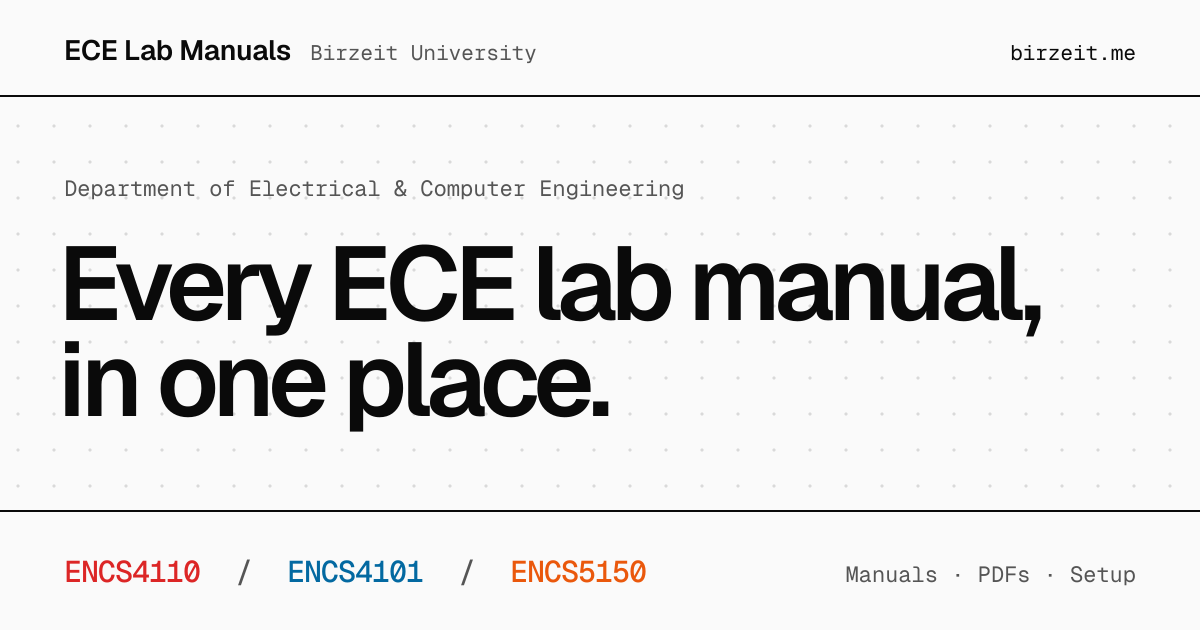
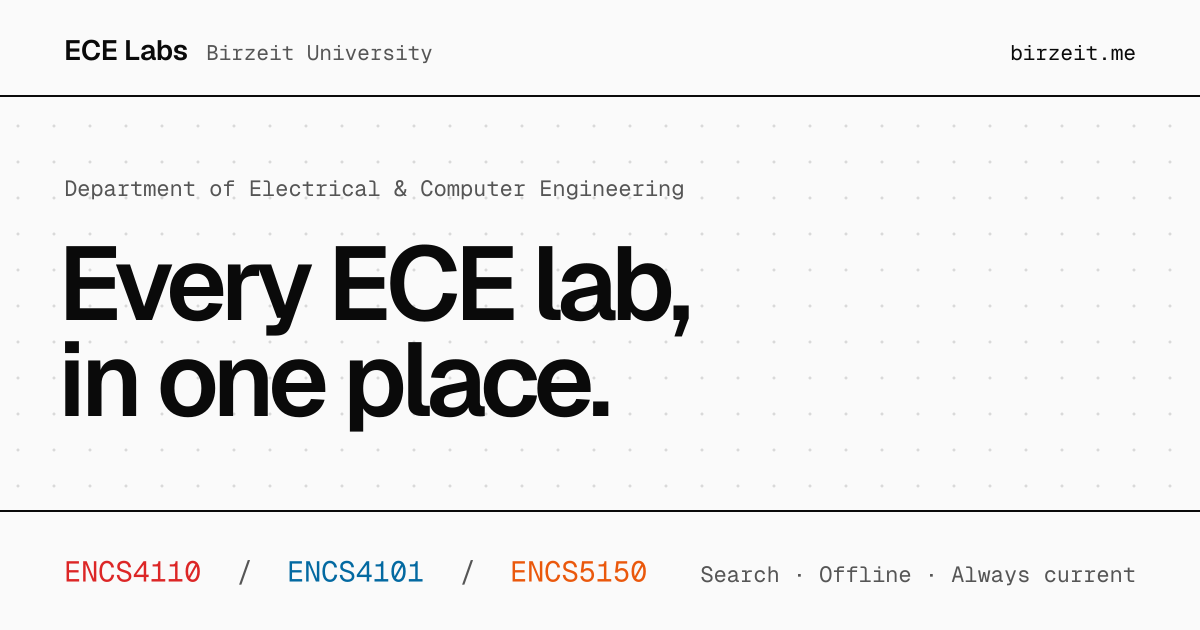
Rename ECE Lab Manuals to ECE Labs; present it as a web platform

diff --git a/index.html b/index.html
@@ -3,17 +3,17 @@
 <head>
 <meta charset="utf-8">
 <meta name="viewport" content="width=device-width, initial-scale=1">
-<title>ECE Lab Manuals · Birzeit University</title>
-<meta name="description" content="Open, step-by-step lab manuals for the Department of Electrical &amp; Computer Engineering at Birzeit University.">
-<meta property="og:title" content="ECE Lab Manuals · Birzeit University">
-<meta property="og:description" content="Open, step-by-step lab manuals for the Department of Electrical &amp; Computer Engineering at Birzeit University.">
+<title>ECE Labs · Birzeit University</title>
+<meta name="description" content="A web platform for the lab manuals of the Department of Electrical &amp; Computer Engineering at Birzeit University: searchable, with copy-paste code, setup guides and printable PDFs.">
+<meta property="og:title" content="ECE Labs · Birzeit University">
+<meta property="og:description" content="A web platform for the lab manuals of the Department of Electrical &amp; Computer Engineering at Birzeit University: searchable, with copy-paste code, setup guides and printable PDFs.">
 <meta property="og:url" content="https://birzeit.me/">
 <meta property="og:type" content="website">
-<meta property="og:site_name" content="ECE Lab Manuals">
+<meta property="og:site_name" content="ECE Labs">
 <meta property="og:image" content="https://birzeit.me/og.png">
 <meta property="og:image:width" content="1200">
 <meta property="og:image:height" content="630">
-<meta property="og:image:alt" content="ECE Lab Manuals, Birzeit University: every ECE lab manual, in one place.">
+<meta property="og:image:alt" content="ECE Labs, Birzeit University: every ECE lab, in one place.">
 <meta name="twitter:card" content="summary_large_image">
 <link rel="canonical" href="https://birzeit.me/">
 <link rel="icon" type="image/png" sizes="32x32" href="/favicon.png">
@@ -26,12 +26,12 @@
       "@type": "WebSite",
       "@id": "https://birzeit.me/#website",
       "url": "https://birzeit.me/",
-      "name": "ECE Lab Manuals",
-      "description": "Open, step-by-step lab manuals for the Department of Electrical & Computer Engineering at Birzeit University."
+      "name": "ECE Labs",
+      "description": "A web platform for the lab manuals of the Department of Electrical & Computer Engineering at Birzeit University: searchable, with copy-paste code, setup guides and printable PDFs."
     },
     {
       "@type": "ItemList",
-      "name": "ECE lab manuals",
+      "name": "ECE labs",
       "itemListElement": [
         {
           "@type": "ListItem",
@@ -228,7 +228,7 @@
 <a class="skip" href="#labs">Skip to labs</a>
 
 <header class="pad-x">
-  <a class="brand" href="#top"><b>ECE Lab Manuals</b><span>Birzeit University</span></a>
+  <a class="brand" href="#top"><b>ECE Labs</b><span>Birzeit University</span></a>
   <nav aria-label="Primary">
     <a href="#labs">Labs</a>
     <a href="#about">About</a>
@@ -246,10 +246,10 @@
   <div class="hero pad-x">
     <div class="hero-main">
       <div class="eyebrow">Department of Electrical &amp; Computer Engineering</div>
-      <h1>Every ECE lab manual, in one place.</h1>
+      <h1>Every ECE lab, in one place.</h1>
     </div>
     <div class="hero-side">
-      <p class="lede">Step-by-step manuals for the department's labs, with setup guides and printable PDFs.</p>
+      <p class="lede">The department's lab manuals as a searchable web platform, with setup guides and printable PDFs.</p>
       <form role="search" id="find">
         <label><span>Find a lab</span><input type="search" id="q" placeholder="code, board or topic" aria-describedby="find-status" autocomplete="off"></label>
         <span id="find-status" aria-live="polite"></span>

diff --git a/README.md b/README.md
@@ -1,8 +1,8 @@
-<a href="https://birzeit.me"><img src="og.png" alt="ECE Lab Manuals, Birzeit University: every ECE lab manual, in one place." width="100%"></a>
+<a href="https://birzeit.me"><img src="og.png" alt="ECE Labs, Birzeit University: every ECE lab, in one place." width="100%"></a>
 
-# ECE Lab Manuals · birzeit.me
+# ECE Labs · birzeit.me
 
-The landing page at [birzeit.me](https://birzeit.me) that lists every lab manual of the Department of Electrical & Computer Engineering at Birzeit University, with search across lab codes, boards and topics.
+The landing page at [birzeit.me](https://birzeit.me) that lists every lab of the Department of Electrical & Computer Engineering at Birzeit University, with search across lab codes, boards and topics.
 
 **[Open birzeit.me](https://birzeit.me)** · [ENCS4110](https://encs4110.birzeit.me) · [ENCS4101](https://encs4101.birzeit.me) · [ENCS5150](https://encs5150.birzeit.me)
 
@@ -21,7 +21,7 @@ python3 -m http.server 8000   # http://localhost:8000
 | Path | Contents |
 |:--|:--|
 | `index.html` | The whole page: markup, styles, theme switch, search, analytics |
-| `og.png` | Link-preview image |
+| `og.png`, `og.svg` | Link-preview image and its source (render with Inkscape, Geist fonts installed) |
 | `favicon.png`, `apple-touch-icon.png` | Icons |
 | `sitemap.xml`, `robots.txt` | Search engine files, with sitemaps for all four sites |
 | `CNAME` | `birzeit.me` |
@@ -52,4 +52,4 @@ On every push to `main`, `.github/workflows/deploy.yml` writes the latest commit
 
 ---
 
-<sub>Part of [ECE Lab Manuals](https://birzeit.me) · Maintained by [Mohammad Abu-Shelbaia](https://mabushelbaia.com)</sub>
+<sub>Part of [ECE Labs](https://birzeit.me) · Maintained by [Mohammad Abu-Shelbaia](https://mabushelbaia.com)</sub>
